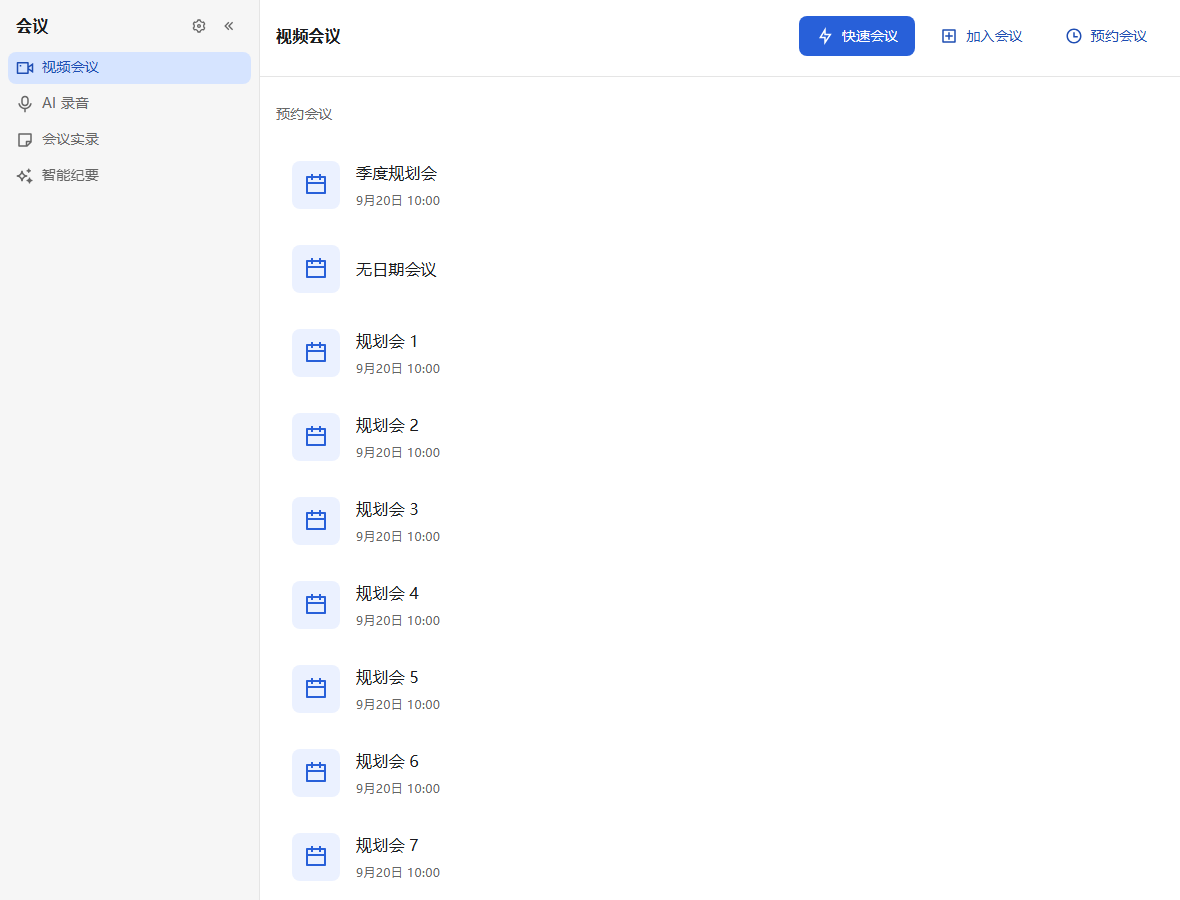
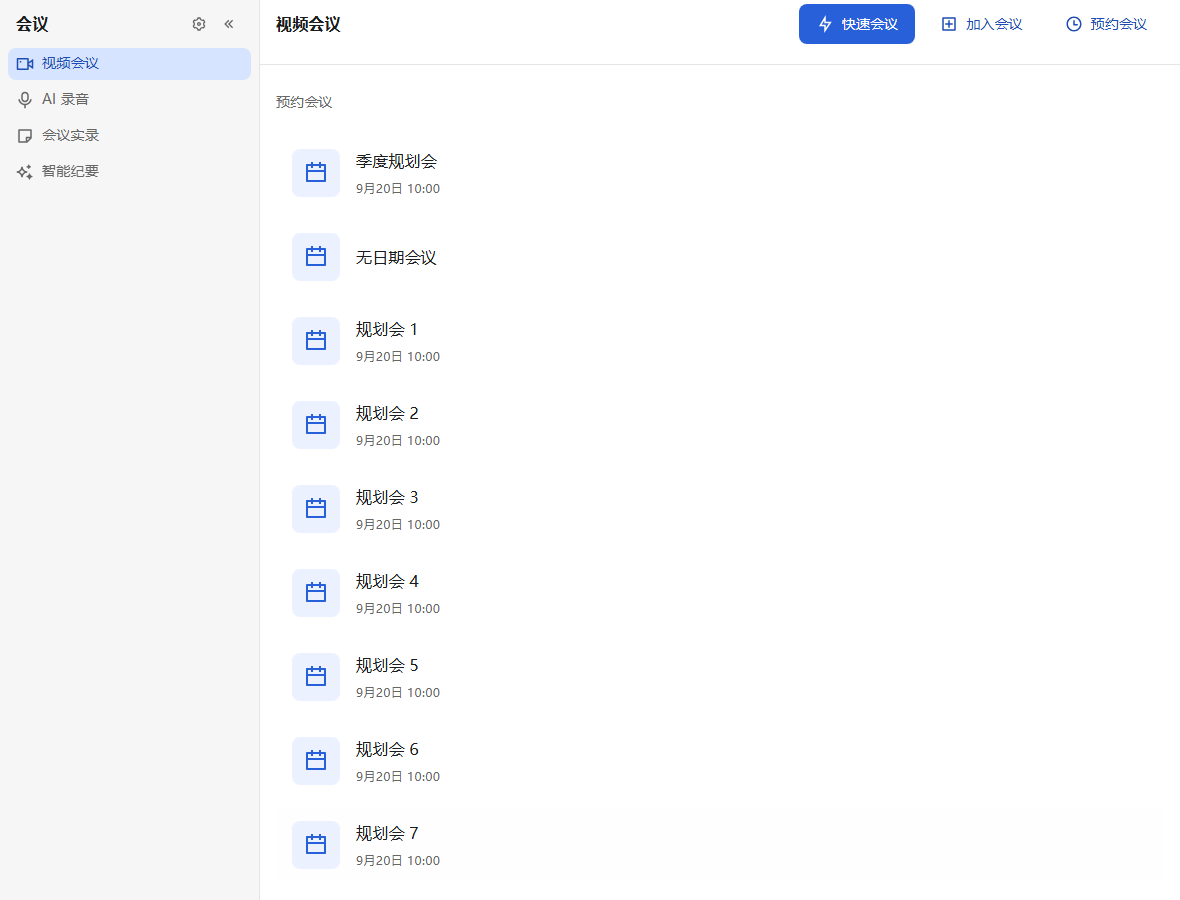
style(ui): unify every title bar at 48px
走查反馈「会议模块的标题栏比其他模块都高」。量下来三条栏三个数,现在一律 48px
(= controlHeight.large,既有 token;也只有它能让左栏栏头与右栏标题落在同一条线上):

- 会议四个一级页的标题栏:固定区顶边 -> 标题行底边 60px -> 48px
  (pageFixedTop 不再自带 paddingTop,高度收在 pageHeaderText 的 8px 纵向内边距里);
- 二级导航栏栏头(六个模块):52px -> 48px(paddingY sm + minHeight 48;图标钮 28 +
  上下各 8 = 44 由 min-height 兜到 48);
- 内容区标题栏(TitleBar:消息聊天栏/任务/通讯录/审批):有 40px 头像时 57px -> 48px
  (4px 纵向内边距把头像装进去,内联样式不与 barCls 抢原子类);含 1px 描边实测 49px,
  与其它栏差 1px。

代价:聊天栏里 40px 头像上下只剩 4px 留白 —— 比原先紧,但飞书/微信那一栏也是紧贴的
形态;换来的是所有模块标题栏同一高度。

验证:check-title-bar.mjs 断言两种形态同高(差 <=1px)且 <=50px;
check-subnav-panels.mjs 断言栏头 paddingTop 8px + 栏高 48px;
check-meeting-pages-ui.mjs 新增断言「固定区顶边 -> 标题行底边 = 48px」(改前 60 会红);
vitest 162 文件 1043 条、lint / prettier / color / foundation / tsc / build 全绿。

diff --git a/src/frontend/src/components/TitleBar.tsx b/src/frontend/src/components/TitleBar.tsx
@@ -11,11 +11,10 @@ import { css } from '@/styled-system/css'
  *   ① 标题与备注**同一行、不换行** —— 原先「标题 + 人数」上下两行的地方
  *      （任务「我负责的 / 5 个任务」、通讯录「内部联系人 / 14 人」）一长就高一截；
  *   ② 标题可被挤到省略号，备注 `flexShrink: 0` 不被挤掉（人数/结果数是最该看见的）；
- *   ③ 几何统一：内边距 16/8、`min-height: 3rem`、1px 底分割线、白底。
- *      有 40px 前导头像时栏高自然落到 57px（40 + 8×2 + 1），无前导时 48px。
- *
- * 「消息」的会话列表与聊天窗口标题栏、任务 / 通讯录 / 审批的内容标题栏都走这里
- * —— 六处曾各写各的：标题 15 / 16 / 18px 三种、备注有的在下一行、栏高 48~64px。
+ *   ③ 几何统一：**栏高一律 48px**（`controlHeight.large`，与二级导航栏、任务/通讯录/
+ *      审批、会议四个一级页的标题栏同高）、1px 底分割线、白底。无前导时靠 8px 纵向
+ *      内边距撑到 48；有 40px 前导头像时内边距收到 4px —— 48 是这个栏的**高度基准**，
+ *      不因为放了个头像就长高。
  */
 export const TitleBar = ({
   leading,
@@ -42,7 +41,13 @@ export const TitleBar = ({
 }) => (
   <div
     className={barCls}
-    style={paddingRight ? ({ paddingRight } as CSSProperties) : undefined}
+    style={
+      {
+        ...(paddingRight ? { paddingRight } : {}),
+        // 40px 前导装进 48px 的栏:上下各 4px(内联样式,不与 barCls 抢同一个原子类)。
+        ...(leading ? { paddingTop: '4px', paddingBottom: '4px' } : {}),
+      } as CSSProperties
+    }
     data-testid="title-bar"
   >
     {leading && (

diff --git a/src/frontend/src/features/meetings/components/libraryStyles.ts b/src/frontend/src/features/meetings/components/libraryStyles.ts
@@ -45,7 +45,9 @@ export const pageShell = (surface: 'canvas' | 'default' = 'canvas') =>
 export const pageFixedTop = css({
   flexShrink: 0,
   paddingX: 'lg',
-  paddingTop: 'md',
+  // 顶部不再留白:标题栏自身高度收在 pageHeaderText 的纵向内边距里 —— 这样
+  // 「固定区顶边 → 标题行底边」正好 48px,与任务/通讯录/审批的标题栏同高。
+  paddingTop: 0,
   backgroundColor: 'surface.default',
   borderBottom: '1px solid token(colors.border.subtle)',
 })
@@ -126,6 +128,8 @@ export const pageHeaderText = css({
   flexDirection: 'column',
   gap: 'xs',
   minWidth: 0,
+  // 8px 纵向内边距 + 32px 动作行 = 48px 标题栏(pageHeaderRow 的 minHeight 兜底)。
+  paddingY: 'sm',
 })
 
 /**

diff --git a/src/frontend/src/components/SubNav.tsx b/src/frontend/src/components/SubNav.tsx
@@ -34,7 +34,9 @@ const headerCls = css({
   justifyContent: 'space-between',
   gap: 'sm',
   paddingX: 'lg',
-  paddingY: 'md',
+  paddingY: 'sm',
+  // 栏高与内容区标题栏(TitleBar)统一到 48px —— 一级页左栏与右栏两条头同高。
+  minHeight: 'controlHeight.large',
 })
 
 const titleCls = css({

diff --git a/CHANGELOG.md b/CHANGELOG.md
@@ -135,6 +135,8 @@ and this project adheres to
   title and an optional note such as the member count
 - ♻(frontend) share that title bar as one component across the message, task,
   contacts and approval modules, with a tighter 8px vertical padding
+- 🎨(frontend) give every module title bar and sub-navigation header the same
+  48px height, instead of 48 / 52 / 57 / 60 depending on the page
 
 ### Fixed
 
